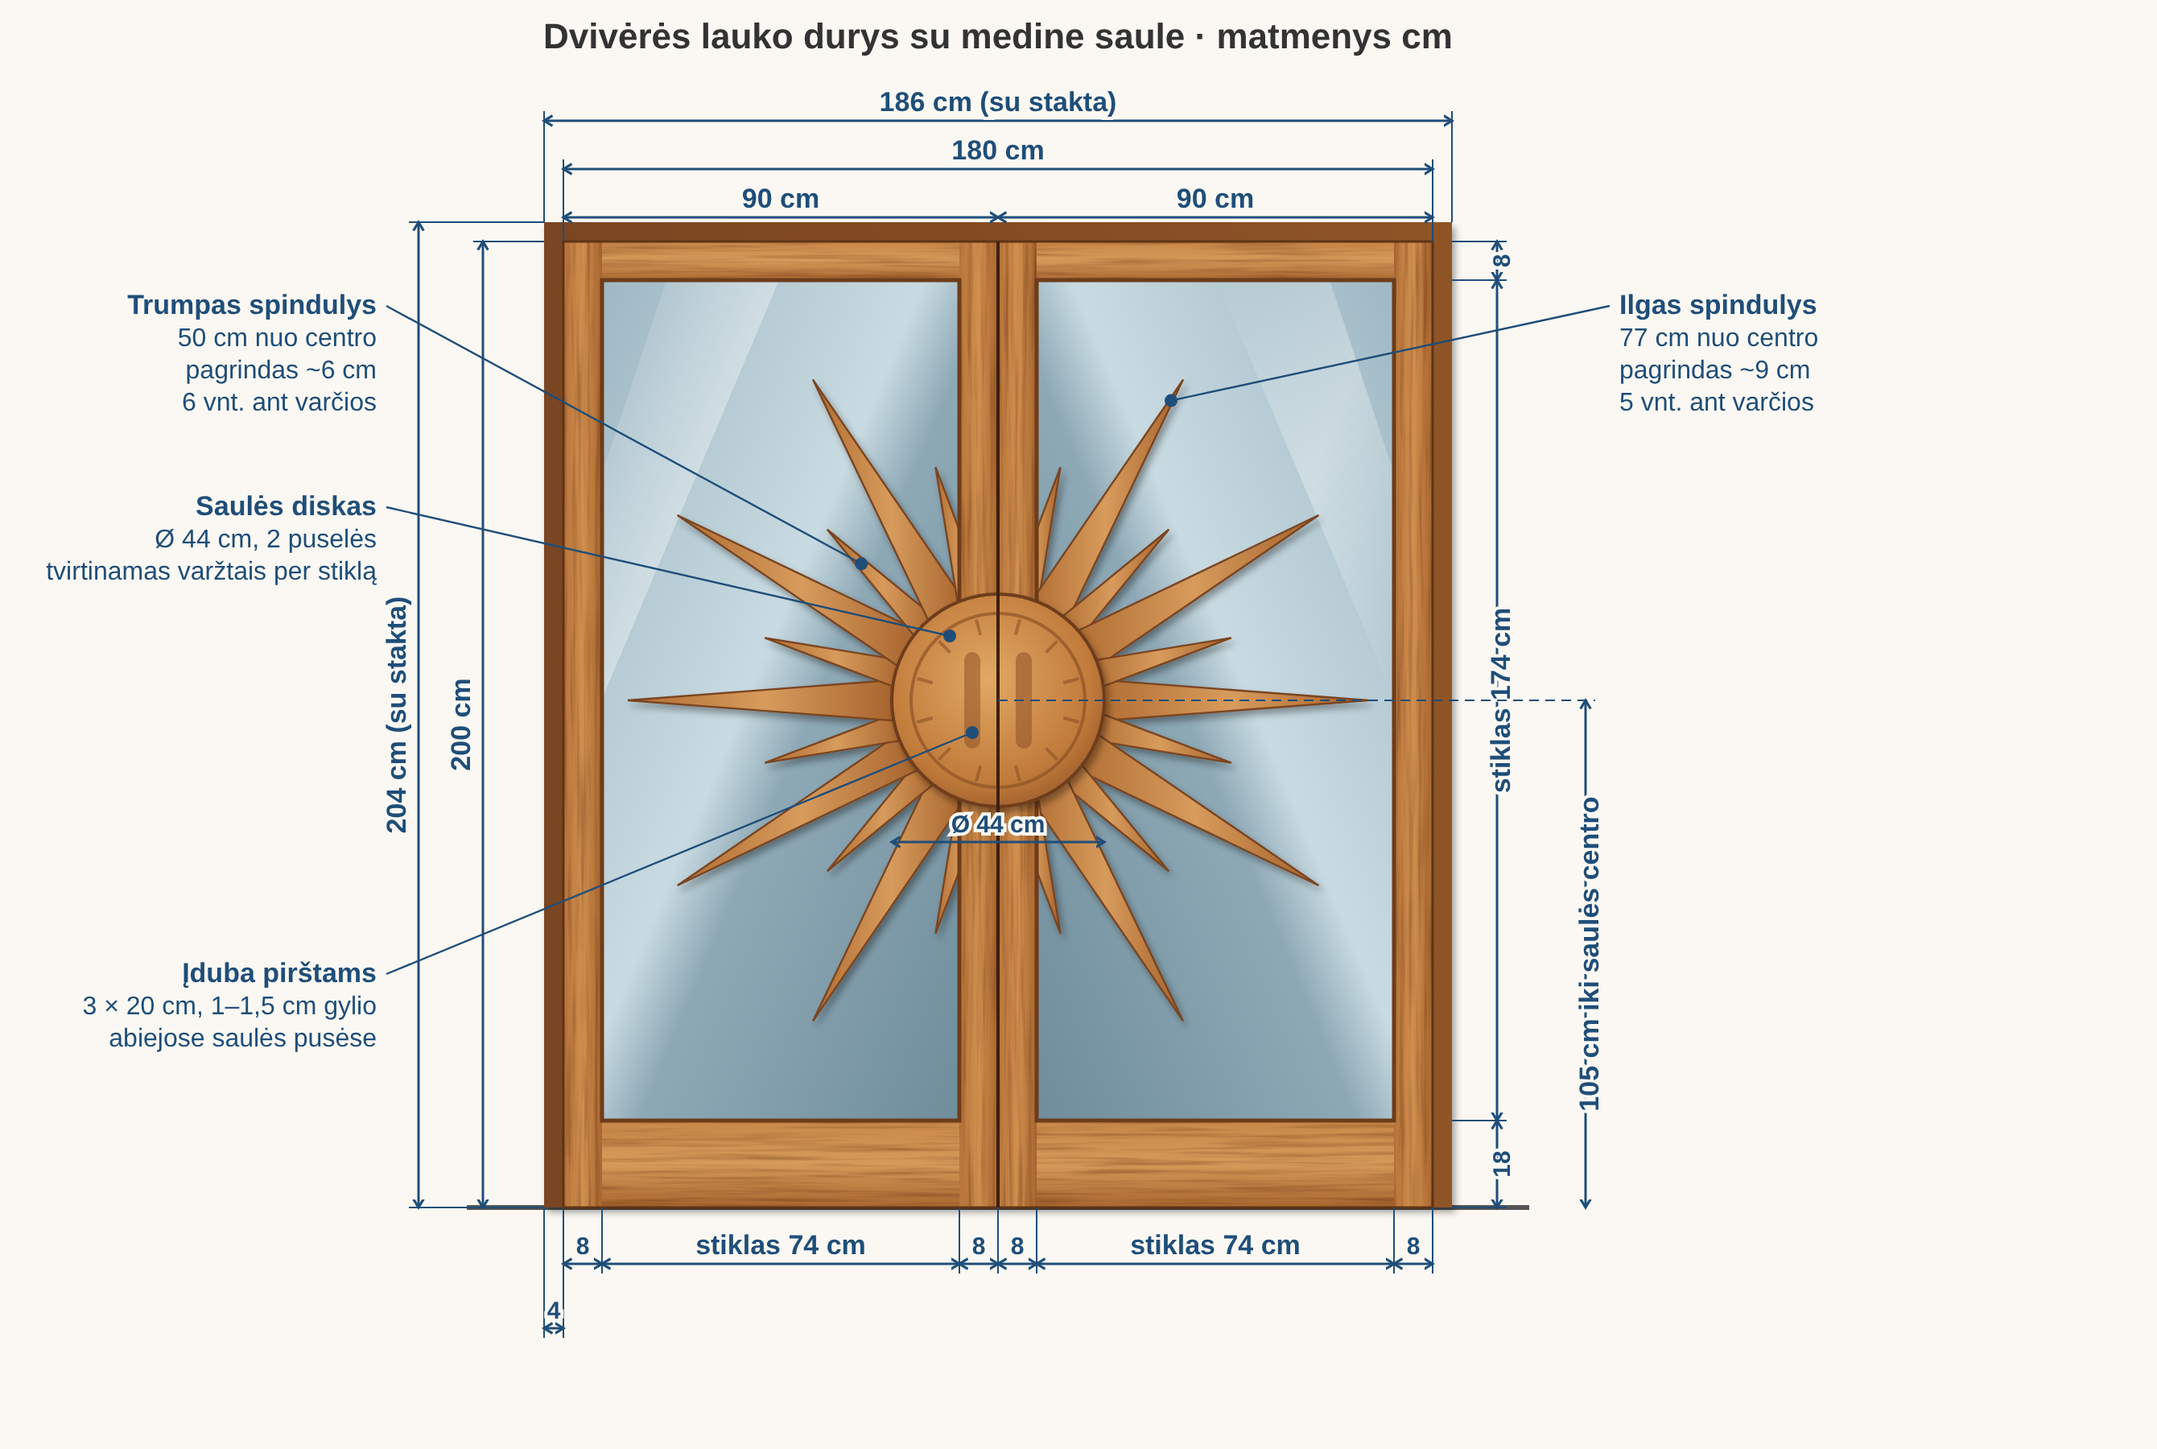
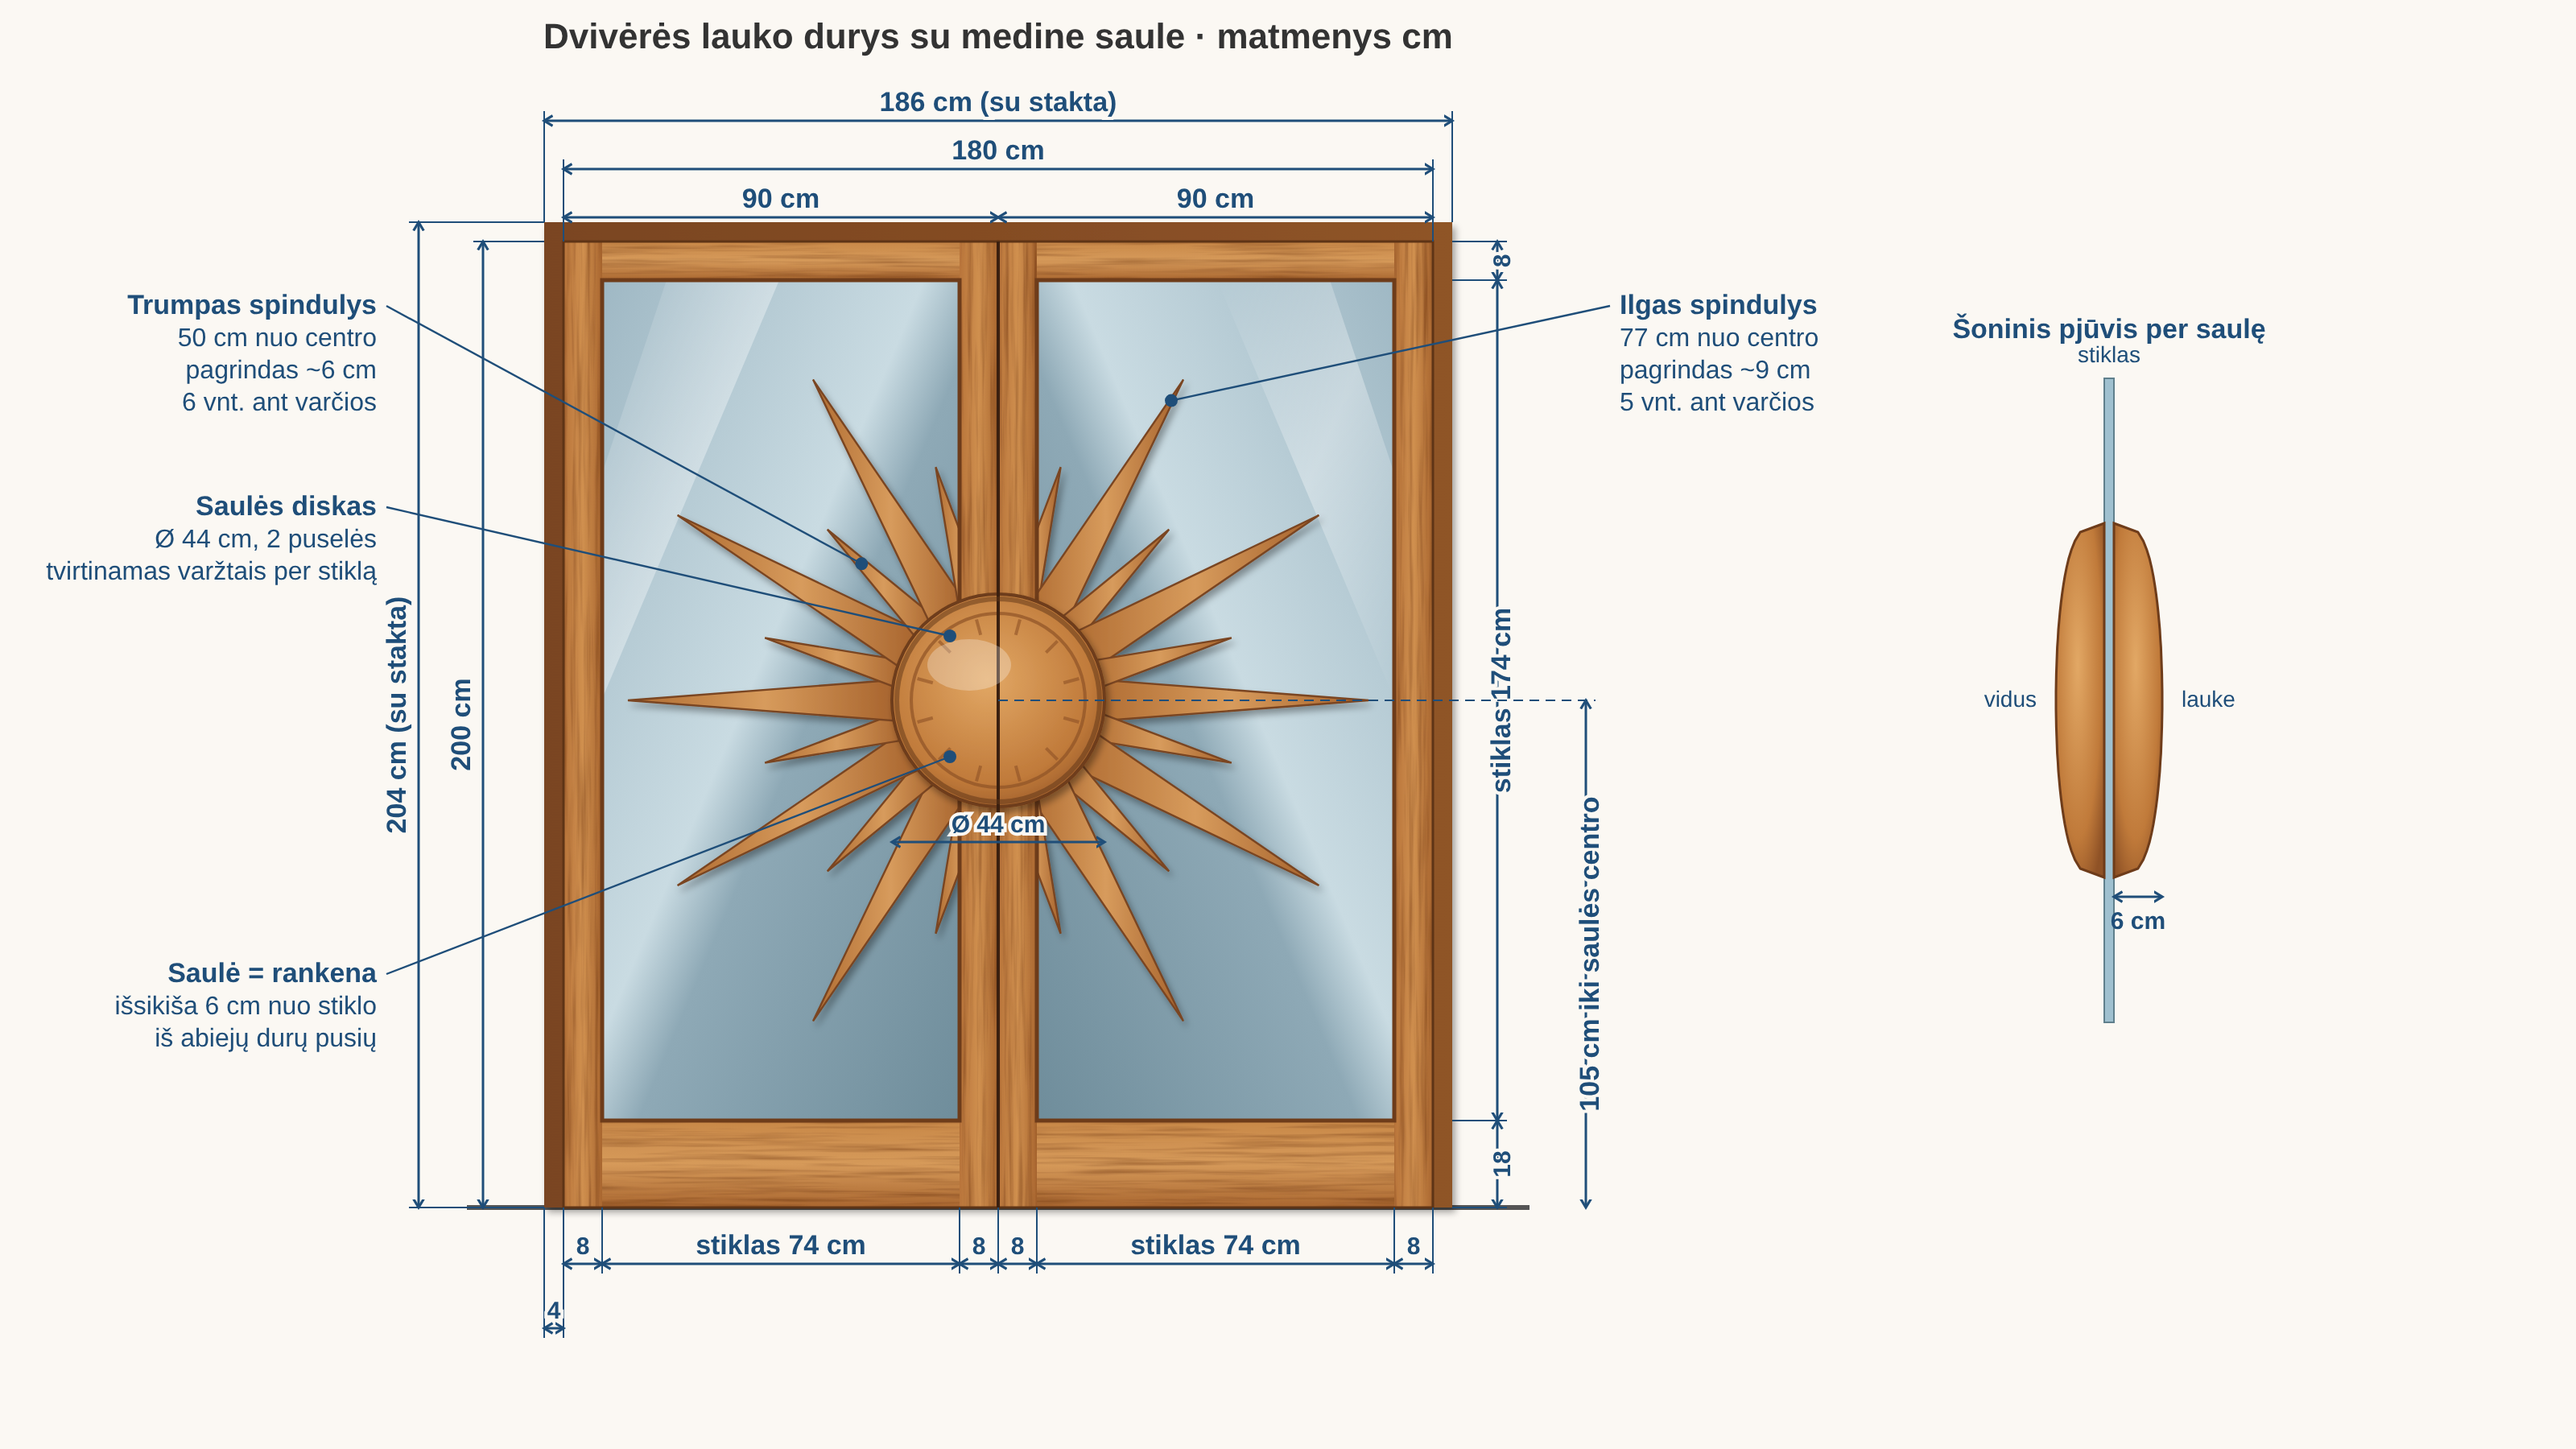
Saulė kaip išsikišusi rankena, be įdubų
Claude-Session: https://claude.ai/code/session_01NZt1Gnh6jbXepyZAwSUY5b

diff --git a/DURYS.md b/DURYS.md
@@ -42,7 +42,7 @@ Brėžinys: `durys-brezinys.png`
 - Stiklas kiekvienoje varčioje: 74 × 174 cm
 - Saulė per vidurį, centras 105 cm nuo grindų (stiklo vidurys)
 - Saulės diskas Ø 44 cm, 2 puselės, tvirtinamas varžtais per stiklą; diskas = rankena
-- Įduba pirštams kiekvienoje puselėje: 3 × 20 cm, 1–1,5 cm gylio
+- Diskas išgaubtas, išsikiša 6 cm nuo stiklo iš abiejų durų pusių (vidus ir lauke); už jo krašto suimama kaip už rankenos, įdubų nėra
 - Ilgi spinduliai: 77 cm nuo centro, pagrindas ~9 cm, 5 vnt. ant varčios
 - Trumpi spinduliai: 50 cm nuo centro, pagrindas ~6 cm, 6 vnt. ant varčios
 - Spinduliai klijuojami ant stiklo (UV klijai / struktūrinis silikonas)
